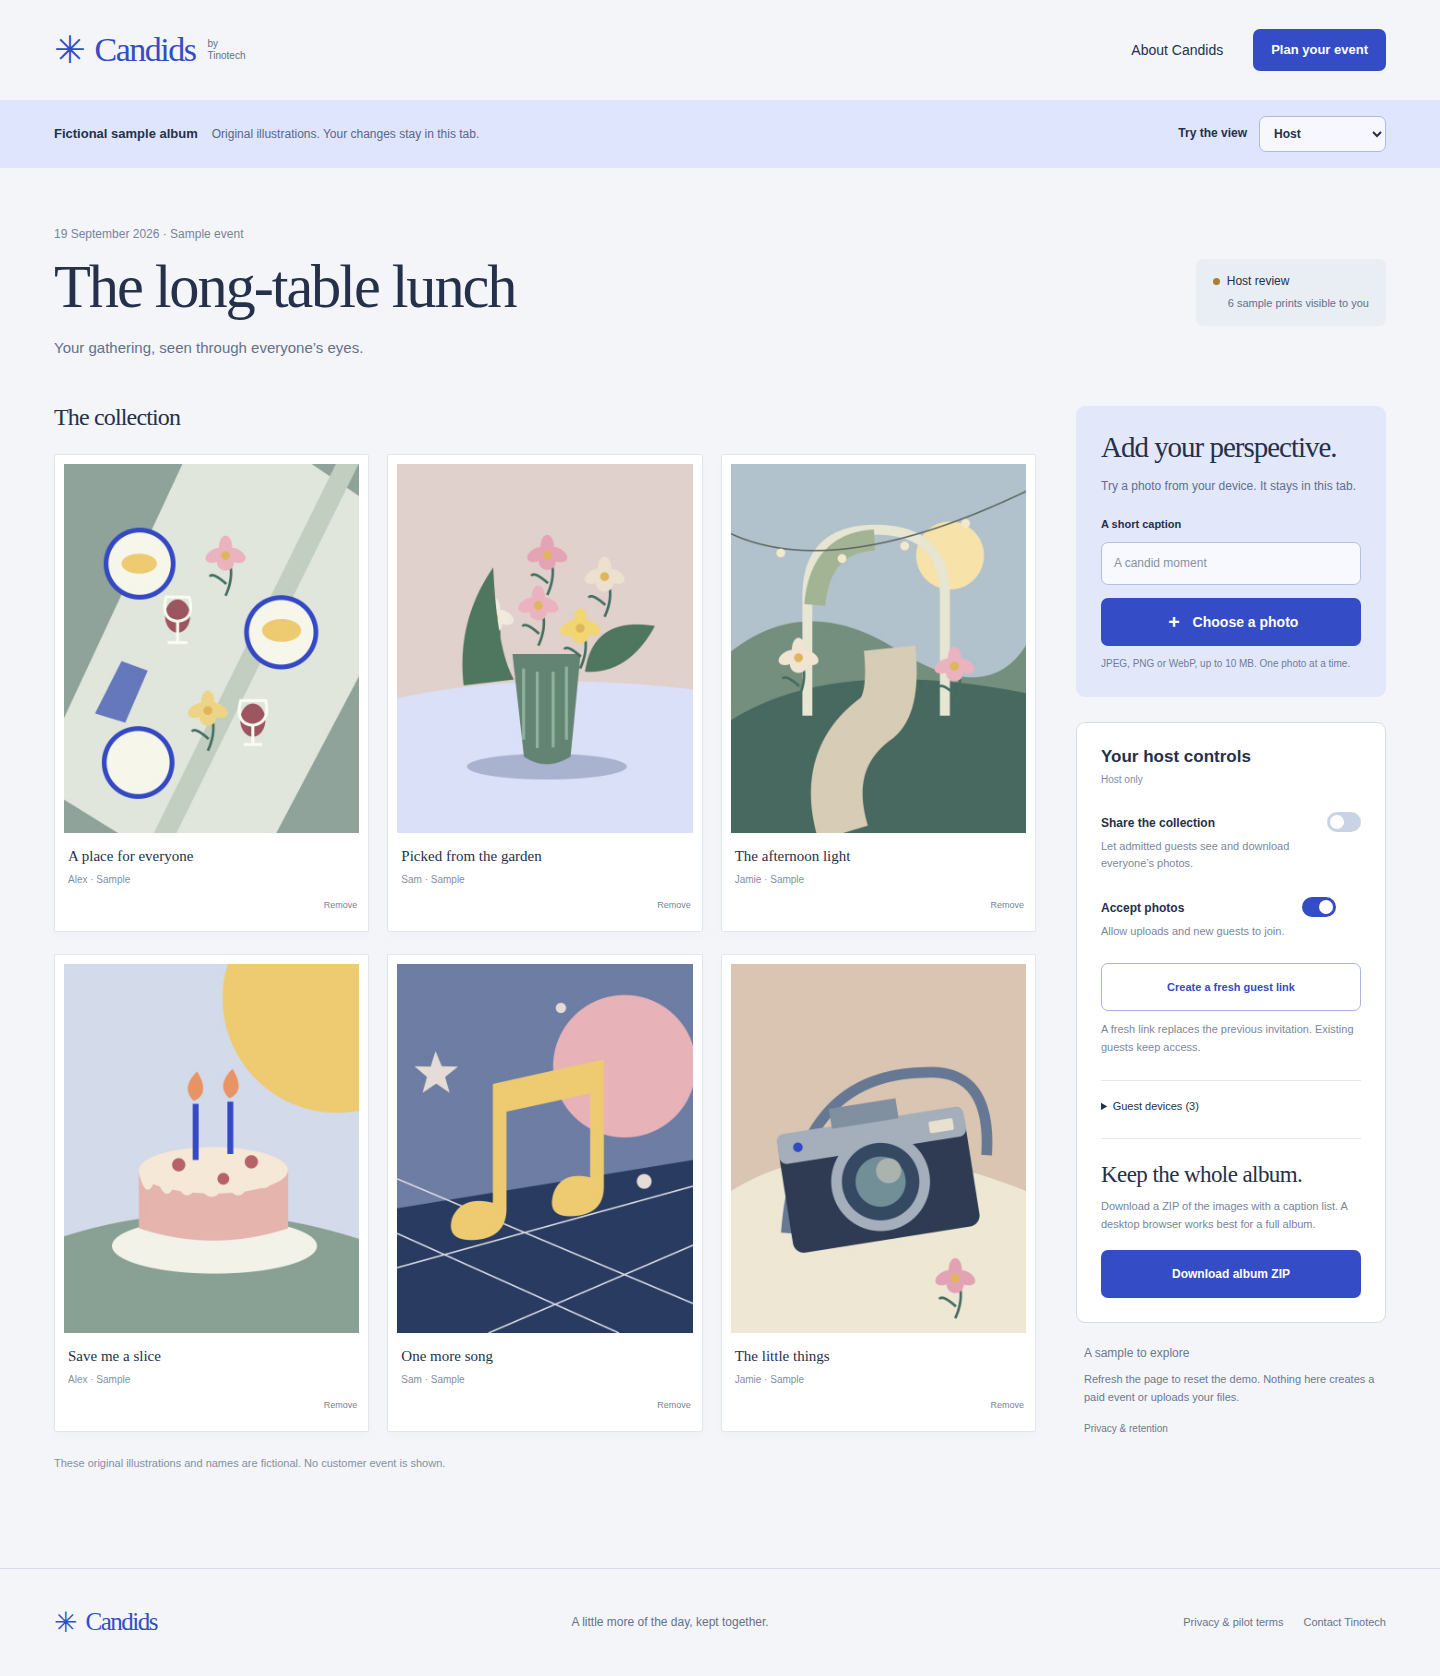
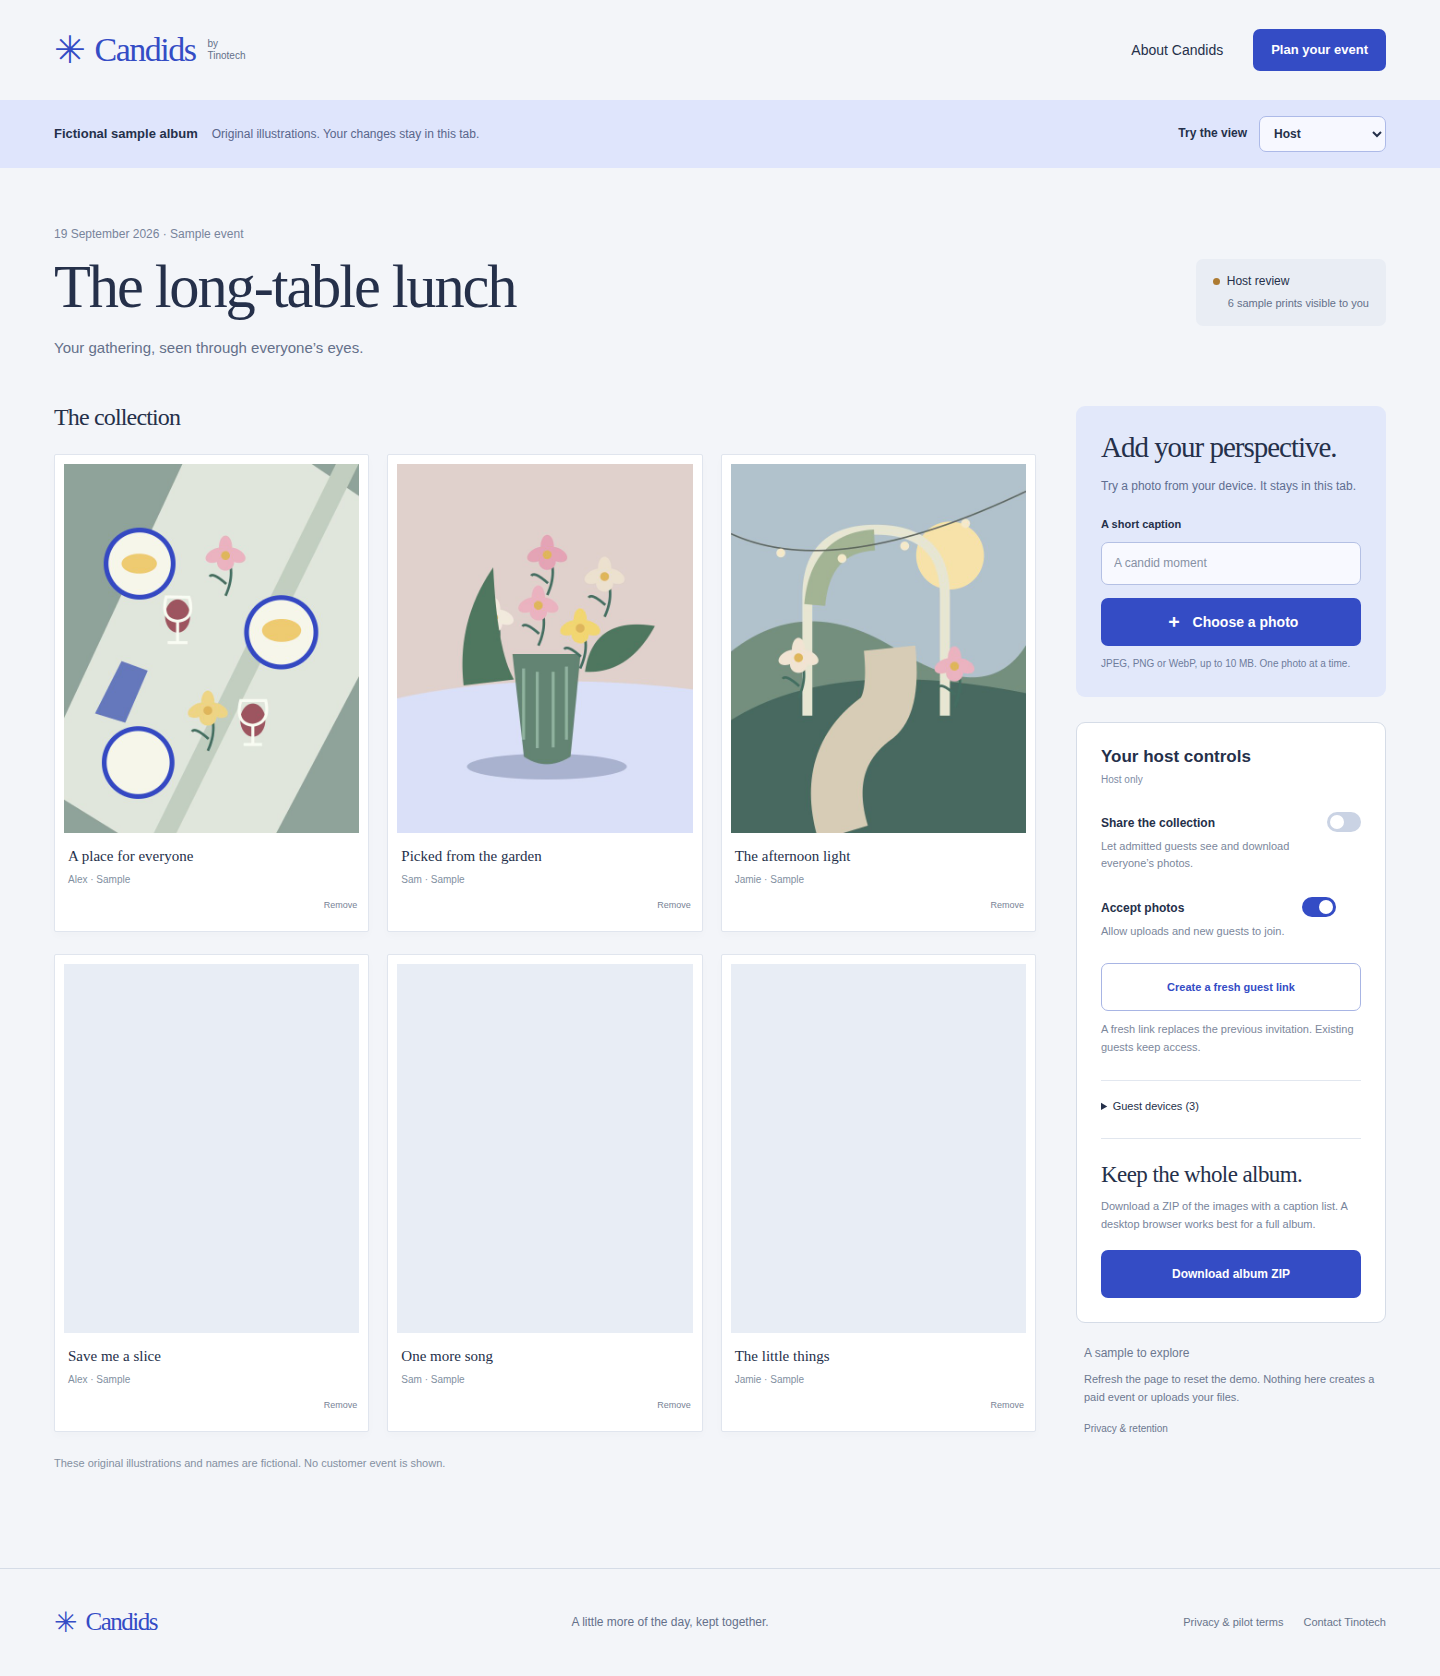
Record passing public visual and social preview acceptance

Changed region(s): [[0.0312, 0.5585, 0.7188, 0.8067]]

diff --git a/README.md b/README.md
@@ -9,7 +9,7 @@ Candids collects photos from one small gathering into a private, host-managed al
 - Guests initially see their own contributions. The host can share/unshare the collection, close uploads, rotate the invite, block a guest device, remove photos and download a ZIP with a caption manifest. Blocking rotates the invite so the blocked guest cannot rejoin with the same link. Names are display names, not verified identities.
 - Host recovery rotates both host and recovery keys. Old host cookies lose access immediately because every read and write checks the current database hash. The new private recovery card includes replacement links. Keep it in a password manager; never paste keys into support email or tickets.
 - Photos are re-encoded server-side as JPEG at a maximum of 2000 pixels on the longest edge. Embedded EXIF/location metadata is removed. The browser accepts JPEG/PNG/WebP up to 10 MB and 24 megapixels, then prepares a maximum 2 MB upload. HEIC and animated images are outside this pilot.
-- Every file request goes through the Next server and an authorized Convex HTTP action. No public storage URL, storage ID, bridge secret or host hash is sent to the browser. A downloaded copy cannot be revoked.
+- Every file request goes through the Next server and an authorized Convex HTTP action. Photo and JSON responses expose no public storage URL, storage ID or bridge secret. The signed session contains an actor hash in an HttpOnly cookie. A downloaded copy cannot be revoked.
 
 This is a managed pilot foundation, not an unattended SaaS. A guest link is a bearer invitation: distribute it privately. There is no face recognition, content moderation service, end-to-end encryption, automatic billing, background email, offline upload queue or guaranteed full-resolution camera backup. The host is responsible for consent and reviewing contributions. A large ZIP is best downloaded on desktop.
 

diff --git a/docs/qa/README.md b/docs/qa/README.md
@@ -1,6 +1,6 @@
 # Acceptance evidence
 
-Captured 12 September 2026. All artwork, event names and guest names are fictional. These screenshots contain no actual customer event, account key, invitation URL or private operator receipt.
+Captured from the public Vercel release on 12 September 2026. All artwork, event names and guest names are fictional. These screenshots contain no actual customer event, account key, invitation URL or private operator receipt.
 
 - [Desktop landing](landing-desktop.png)
 - [Desktop album/host controls](album-desktop.png)
@@ -11,3 +11,5 @@ Captured 12 September 2026. All artwork, event names and guest names are fiction
 `node scripts/acceptance.mjs` reproduces sample interaction and screenshot checks. The private `CANDIDS_TEST_CARD` option additionally exercises an isolated local Convex event. The backend tests cover cross-event authorization, own-photo rules, file visibility/revocation, host recovery, failed-access limiting, fifty guests on one venue IP, quotas, idempotency and expiry cleanup. Image tests reject non-images/oversize bodies and verify dimensions/metadata stripping. The current Convex test double omits Blob contentType metadata; the real local HTTP acceptance covers storage finalization instead of weakening the production MIME check.
 
 The public deployment has real-event APIs disabled. These results are not a claim that an unconfigured cloud backend or actual-device Safari upload has been tested. See the main README for the remaining hosted acceptance and operator retention checks.
+
+Public release checks: landing/demo HTTP 200, private album/export HTTP 503 by configuration, and the absolute Open Graph PNG responds 200 at 1200×630. The app source at 4ed9dc9 passed GitHub CI and was deployed as dpl_9qGFuVgXEFE7DgyHxyACVXscUvz8. Later evidence-only commits do not change that application build.
